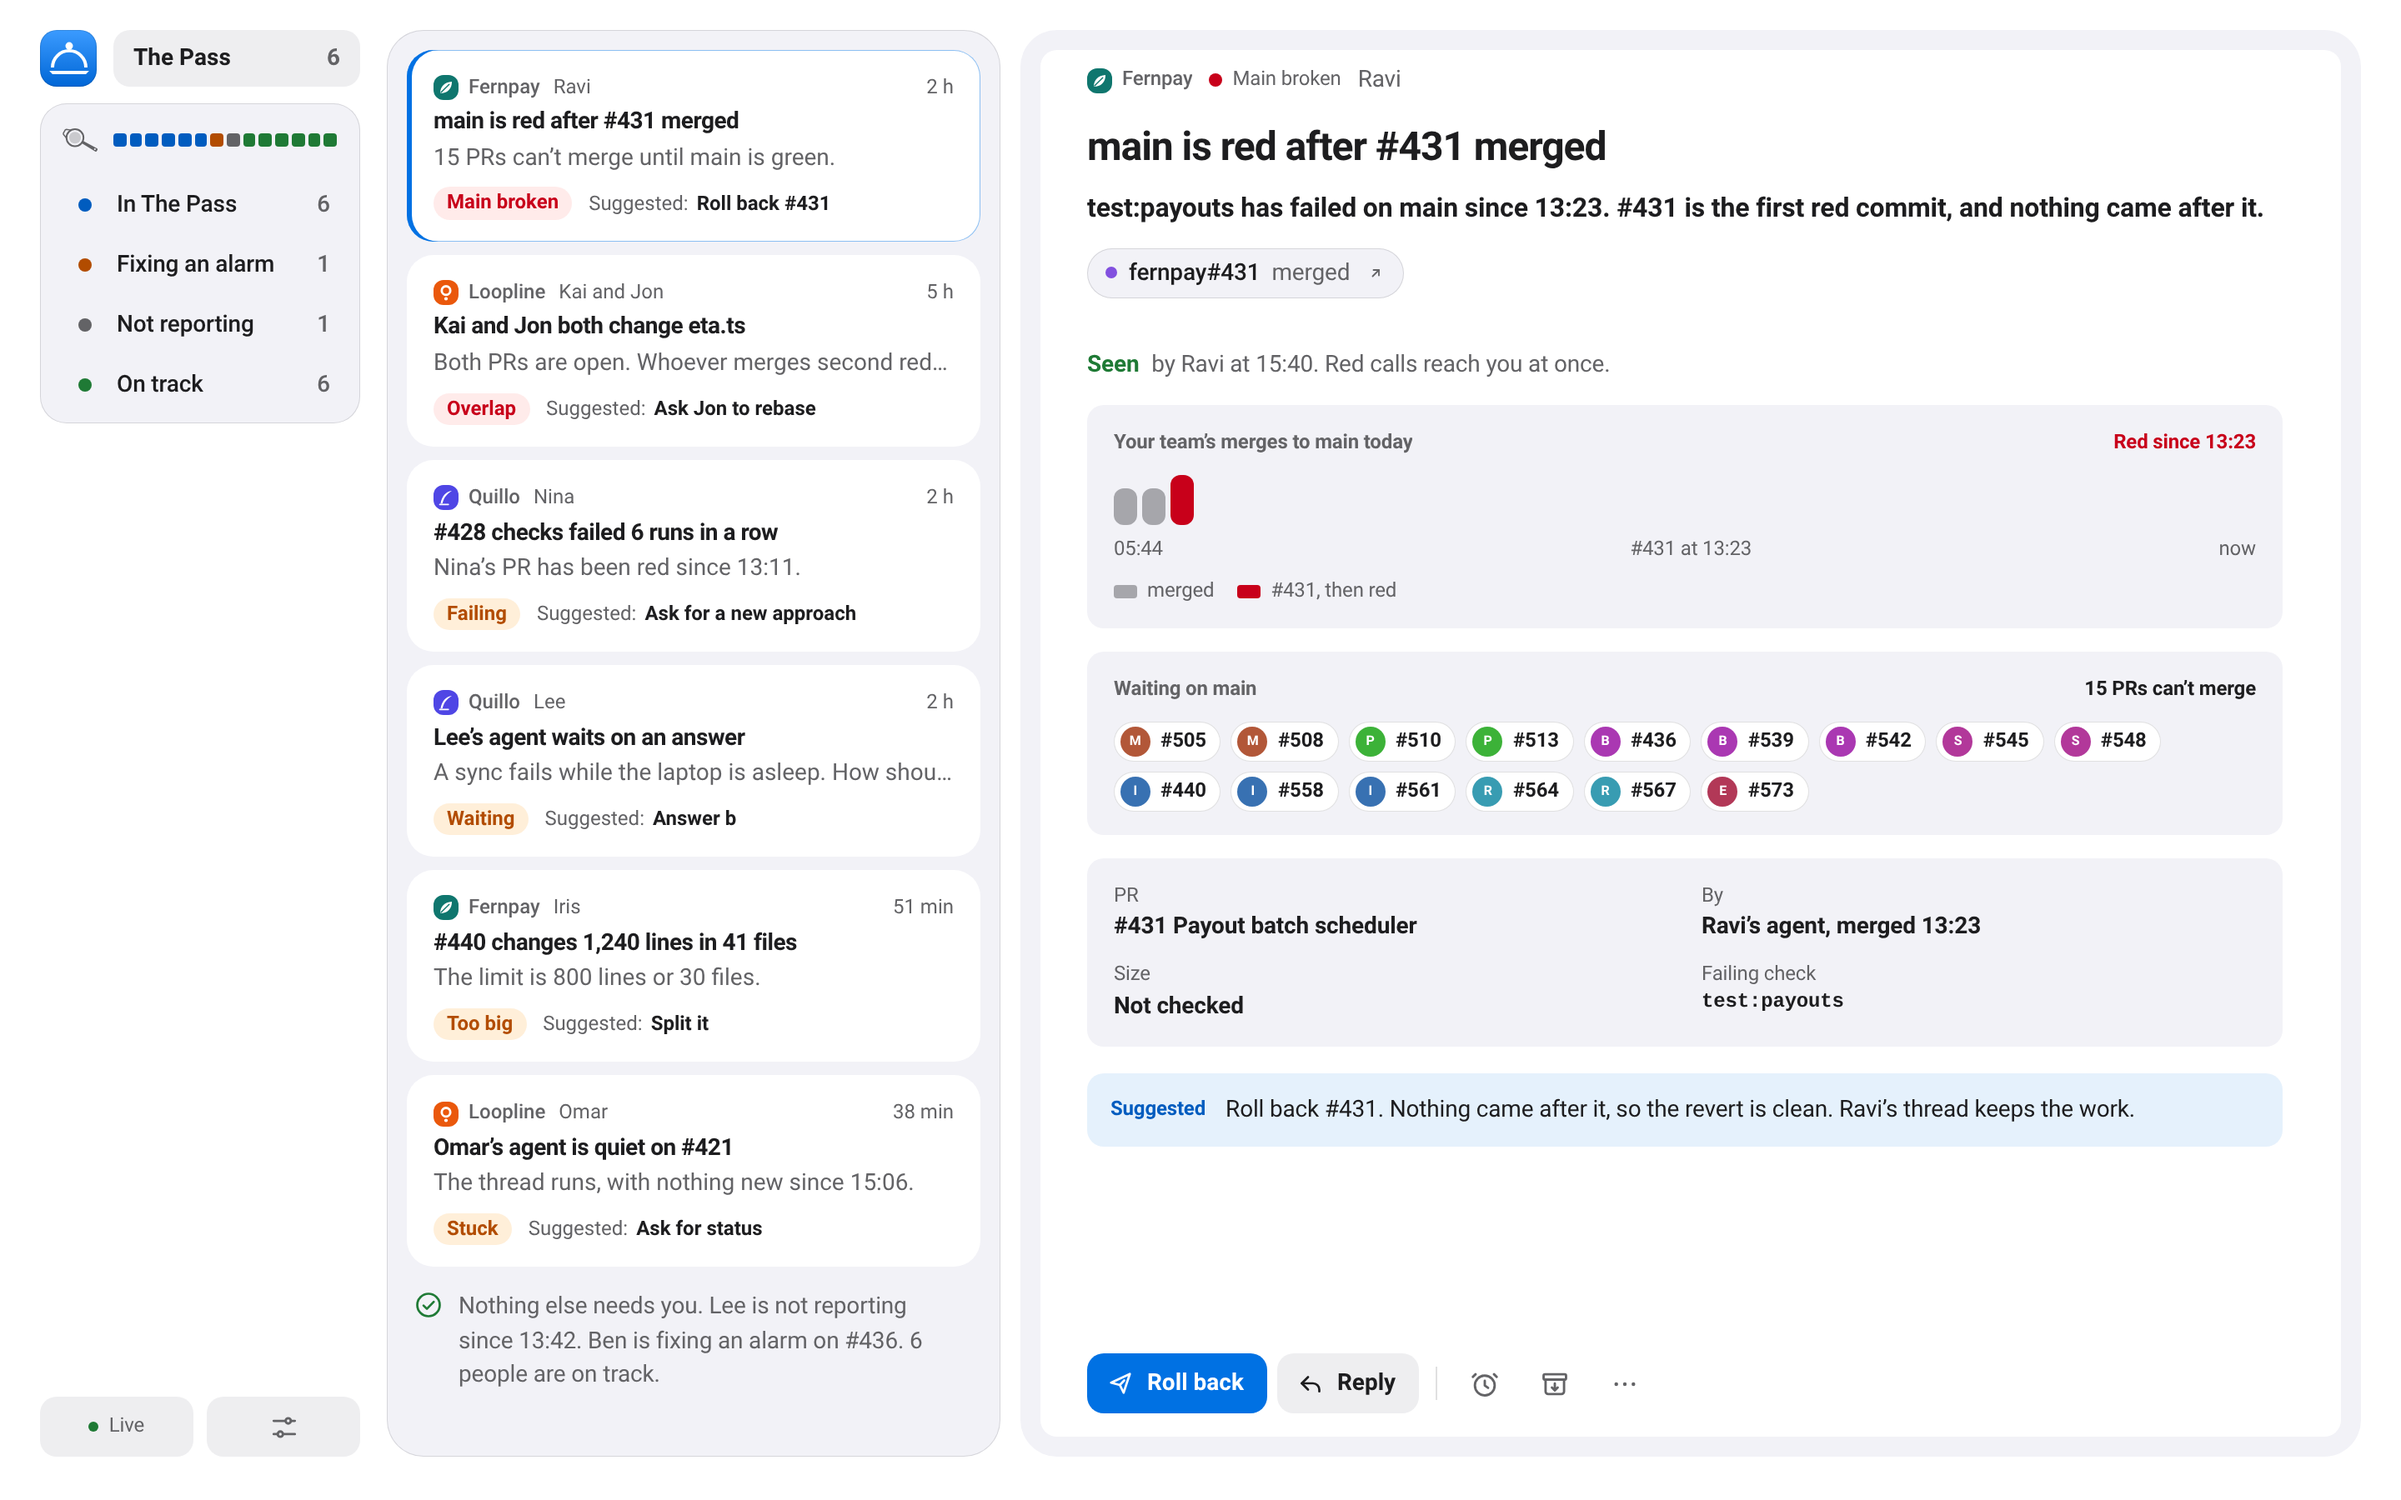
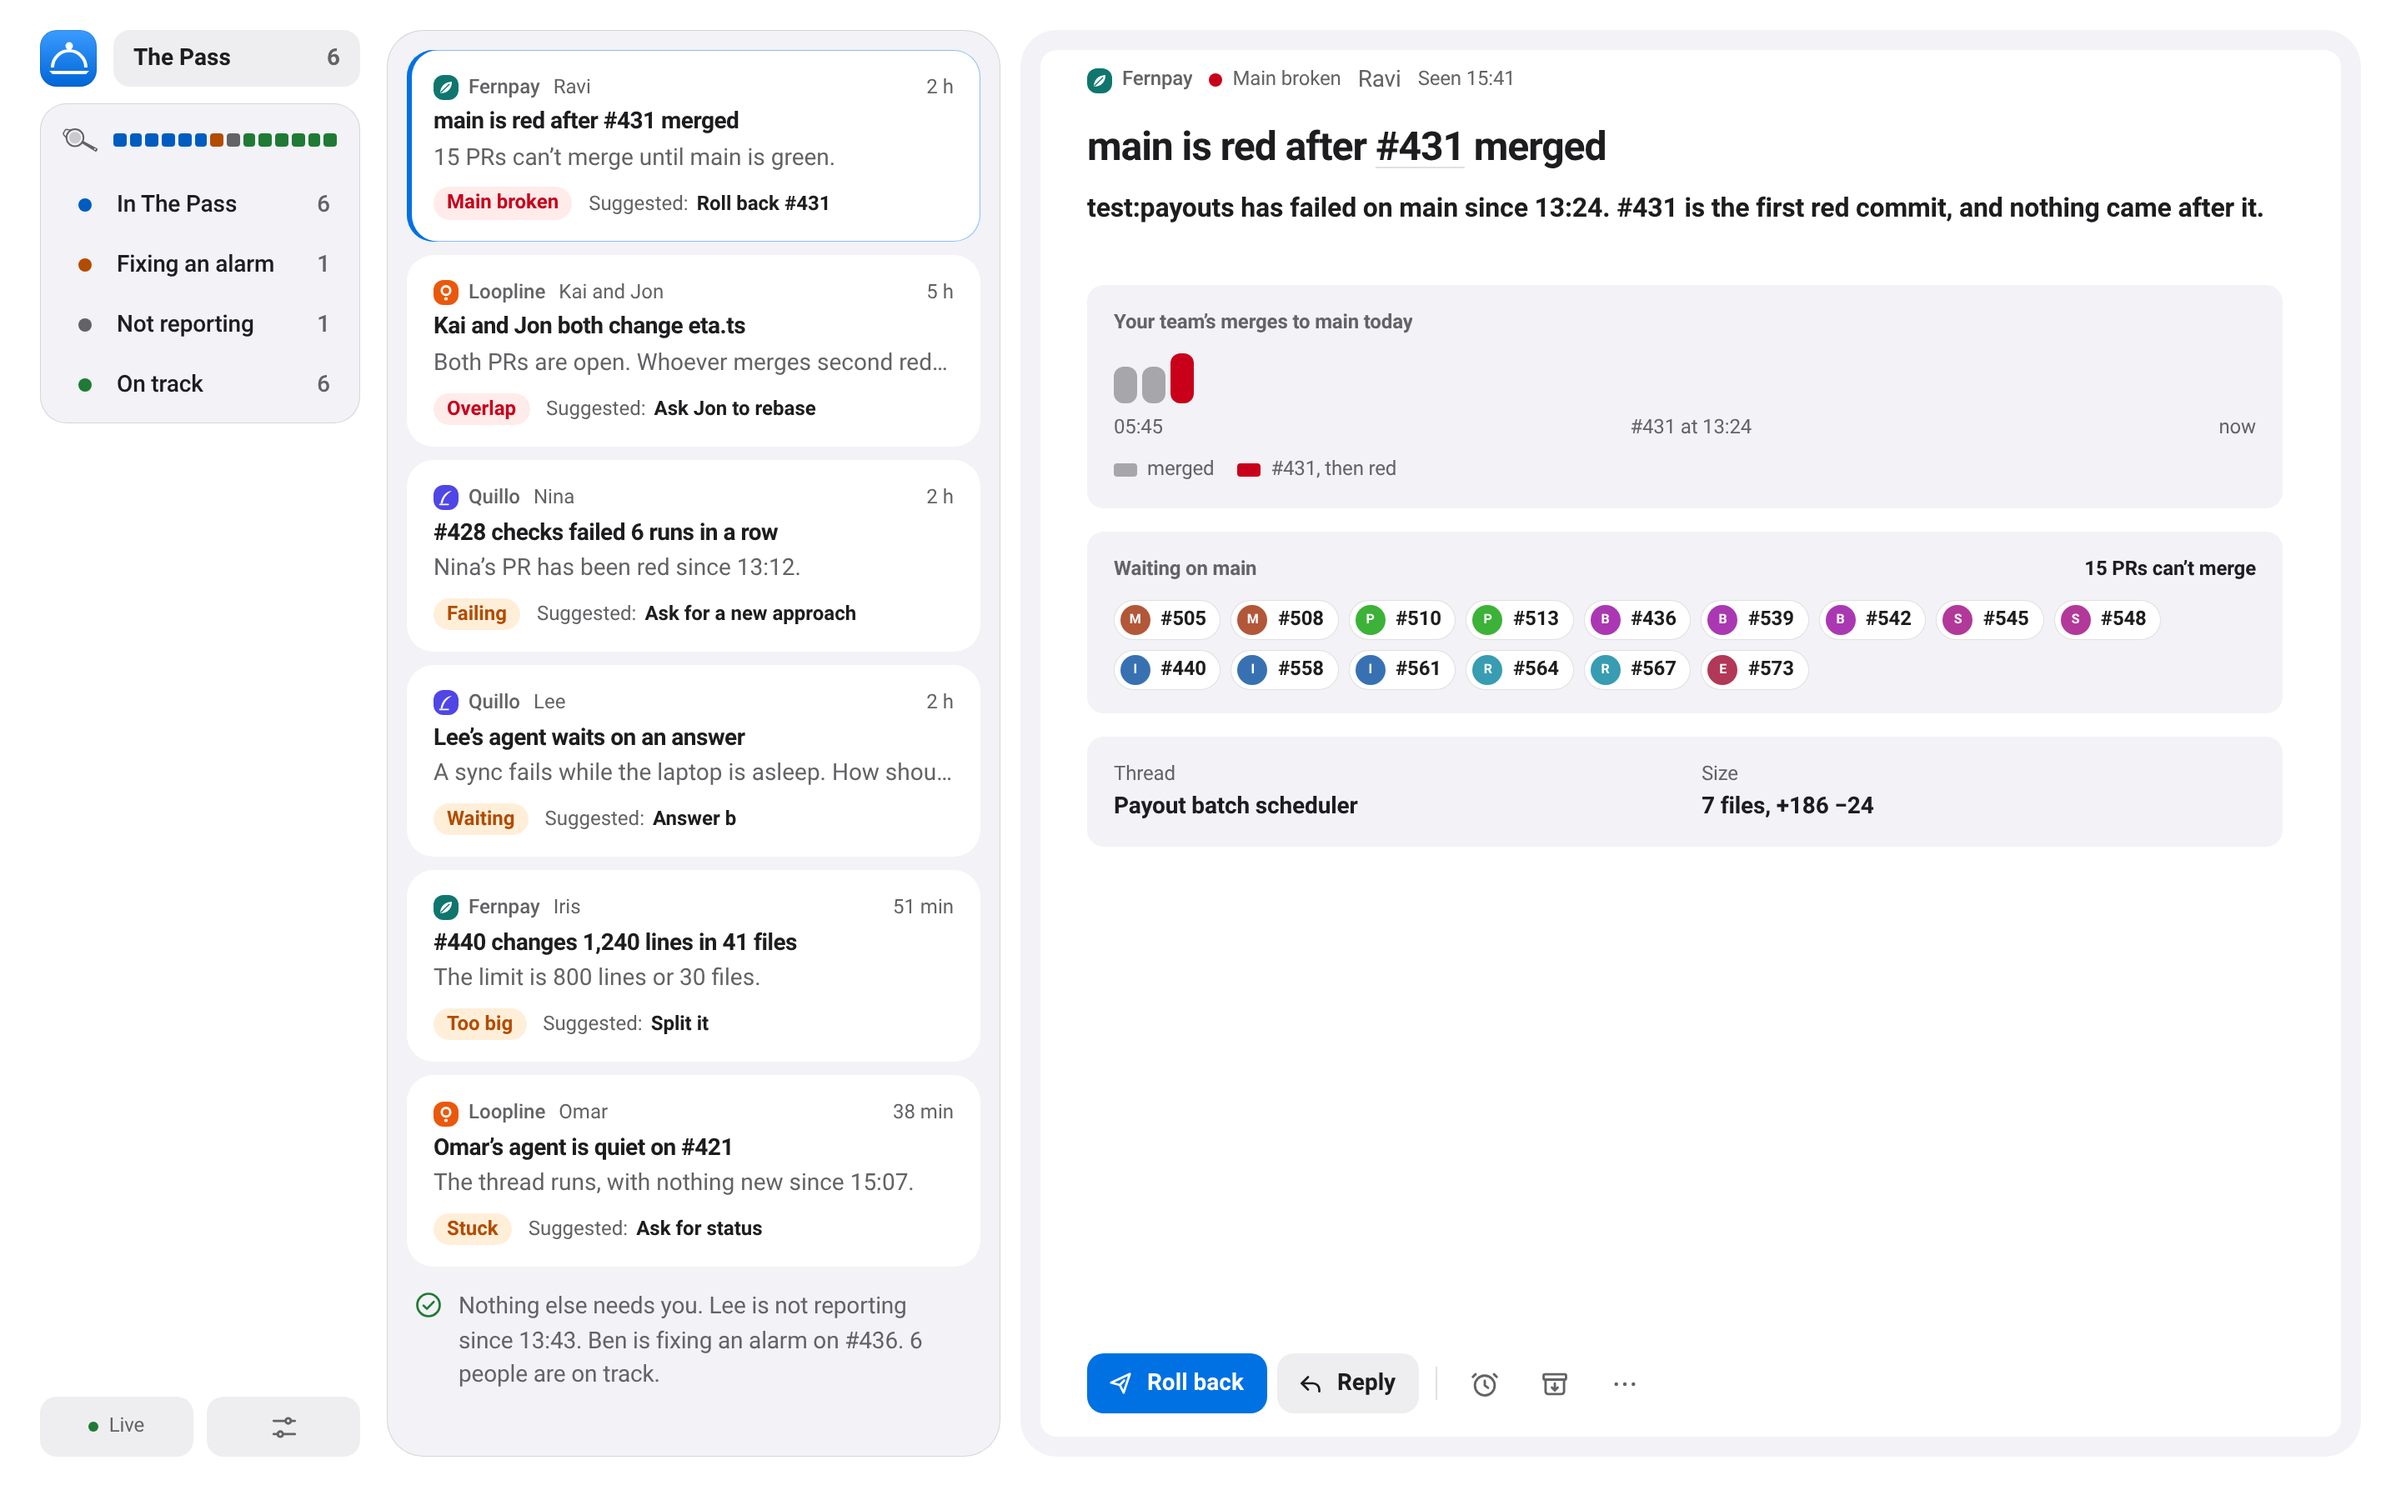
The site's team pictures show #65's reader, shot at a pinned clock (#66)
The phone screenshots of the team view showed the reader before #65: the PR chip, the Seen sentence and the Suggested box. They are retaken from the built team demo. SHOOT_AT stops the page's clock, so the demo's day looks the same whenever it is shot.

diff --git a/tools/shoot.ts b/tools/shoot.ts
@@ -9,7 +9,8 @@
 // types into a field. {"hover":"<selector>"} rests the pointer on an element (a tooltip).
 // SHOOT_VIEWS picks other views than the four defaults, as scheme:width:height pairs, for example
 // SHOOT_VIEWS=light:2560:1440,dark:2560:1440 for a large display. SHOOT_SCALE=2 shoots a desktop view at 2x
-// (the site's phone screenshots of the app are 1440x900 at 2x).
+// (the site's phone screenshots of the app are 1440x900 at 2x). SHOOT_AT=<ISO time> stops the page's clock at that
+// time in UTC, so a demo whose times count back from now looks the same whenever it is shot.
 import { chromium } from 'playwright-core';
 import { mkdirSync, writeFileSync } from 'node:fs';
 
@@ -62,6 +63,12 @@ for (const [scheme, w, h] of views) {
   const scaled = w >= 500 && Number(process.env.SHOOT_SCALE) > 1 ? await ctx.newCDPSession(page) : null;
   if (scaled) await scaled.send('Emulation.setDeviceMetricsOverride', { width: w, height: h, deviceScaleFactor: Number(process.env.SHOOT_SCALE), mobile: false });
   await page.emulateMedia({ colorScheme: scheme as 'light' | 'dark' });
+  if (process.env.SHOOT_AT) {
+    const at = new Date(process.env.SHOOT_AT);
+    if (Number.isNaN(at.getTime())) throw new Error(`SHOOT_AT needs an ISO time. Got: ${process.env.SHOOT_AT}`);
+    await (await ctx.newCDPSession(page)).send('Emulation.setTimezoneOverride', { timezoneId: 'UTC' });
+    await page.clock.setFixedTime(at);
+  }
   await page.goto('http://pass.local/', { waitUntil: 'load', timeout: 60000 });
   await page.waitForTimeout(600);
   const key = `${label}-${scheme}-${w}`;

diff --git a/site/README.md b/site/README.md
@@ -112,4 +112,4 @@ Later on 2026-11-09 Dan renamed the toggle's segments from [agents][devs] to [so
 
 ## Phone screenshots
 
-The app has no phone build (Dan, 2026-11-11). Under 1024 px (phones, tablets in portrait, narrow windows) the hero shows a screenshot of the app for each view, as t3.codes does, in place of the live demo: the app needs a 960 px frame, the Mac app's minimum window. The four PNGs in `src/assets/` (`app-solo-light`, `app-solo-dark`, `app-team-light`, `app-team-dark`) are the built demo pages (`dist/demo/app.html` and `dist/demo/team.html`) at 1440x900, shot at 2x on Browserbase: serve each page as `/` and run `SHOOT_SCALE=2 SHOOT_VIEWS=light:1440:900,dark:1440:900 zsh tools/shoot.sh <port> <out> <label>`, then copy each `-board.png`. Astro turns them into webp at 800, 1200 and 1600 px wide. Retake them when the app's look changes.
+The app has no phone build (Dan, 2026-11-11). Under 1024 px (phones, tablets in portrait, narrow windows) the hero shows a screenshot of the app for each view, as t3.codes does, in place of the live demo: the app needs a 960 px frame, the Mac app's minimum window. The four PNGs in `src/assets/` (`app-solo-light`, `app-solo-dark`, `app-team-light`, `app-team-dark`) are the built demo pages (`dist/demo/app.html` and `dist/demo/team.html`) at 1440x900, shot at 2x on Browserbase: serve each page as `/` and run `SHOOT_AT=2026-11-12T15:45:00Z SHOOT_SCALE=2 SHOOT_VIEWS=light:1440:900,dark:1440:900 zsh tools/shoot.sh <port> <out> <label>`, then copy each `-board.png`. `SHOOT_AT` stops the page's clock mid-afternoon: the demo's times count back from now, so a shot taken early in the day shows a team day only a few hours long. Astro turns them into webp at 800, 1200 and 1600 px wide. Retake them when the app's look changes.
